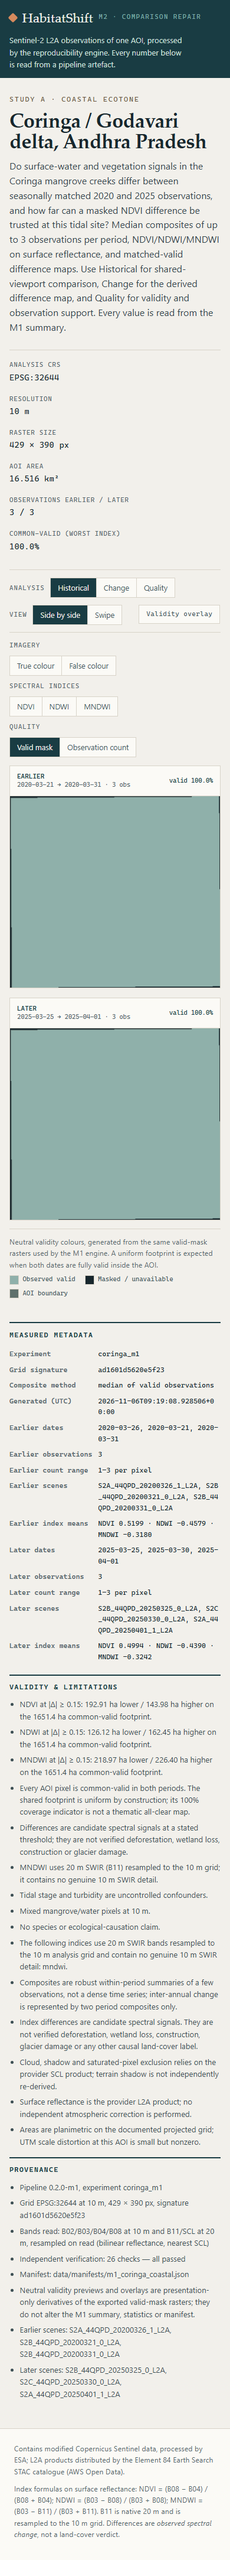
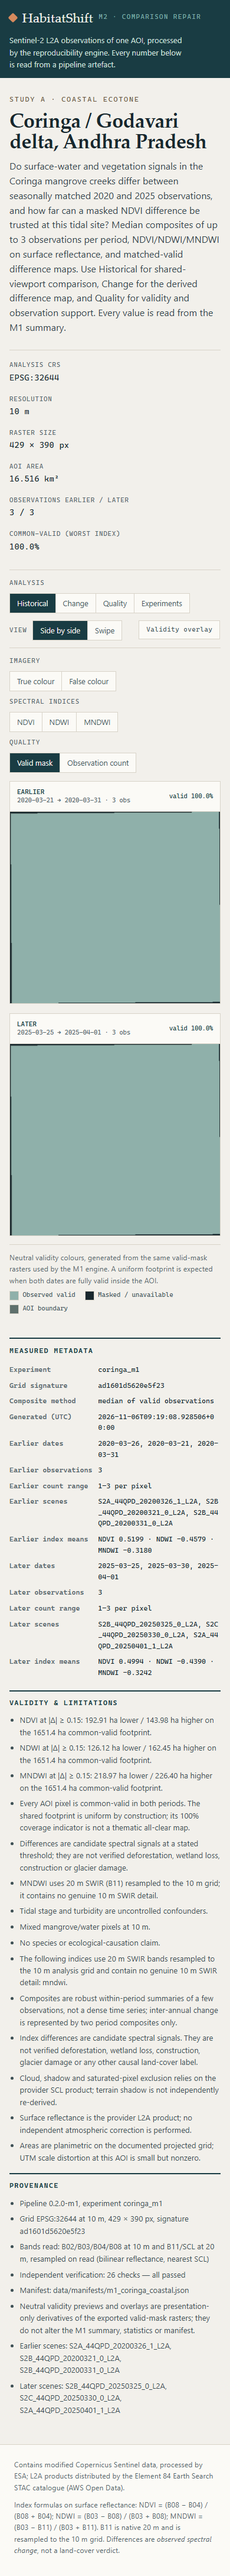
M4-R1 G0: baseline verified (313 pytest / 39+10 browser), all reported issues reproduced and diagnosed

diff --git a/docs/M4_R1_DIAGNOSIS.md b/docs/M4_R1_DIAGNOSIS.md
@@ -1,0 +1,175 @@
+# M4-R1 G0 — Reproduction and diagnosis
+
+**Scope.** M4-R1 corrections (§2–§13 of the brief) plus the additional
+"What Changed?" guided-interpretation feature (§15). This record covers the
+G0 gate: baseline verification and root-cause diagnosis of every reported
+issue before any fix.
+
+**Baseline verified before any change** (2026-11-07, branch `m4-studies`,
+HEAD `dd8f13e`):
+
+| Check | Result |
+|---|---|
+| `python -m pytest` | **313 passed** |
+| `npm run build` (tsc + vite) | clean (chunk-size warning only, unchanged) |
+| `tools/visual/verify_m4.mjs` with backend | **39/39 passed** |
+| `tools/visual/verify_m4_showcase.mjs` without backend | **10/10 passed** |
+
+Working-tree modifications before G0 were only regenerated M2 evidence
+screenshots (PNG re-encodes, already present at HEAD review time); they are
+part of the checkpoint commit.
+
+---
+
+## Diagnosed root causes
+
+### 1. "Explore the Atlas" jumps straight into Coringa (§2)
+
+`LandingPage` renders `<Link to="/workstation">`, and `WorkstationPage`
+falls back to `DEFAULT_STUDY = "coringa_coastal"` when the route has no
+`studyId` (`frontend/src/pages/WorkstationPage.tsx:37`). Confirmed in the
+browser: the hero link's `href` is `#/workstation` and the workstation
+mounts straight into the Coringa investigation. Same applies to the primary
+navigation's Workstation link. **Fix (G1):** a study-selection experience at
+`/workstation` (no studyId) with direct URLs preserved.
+
+### 2. Gallery rows of 2 / 3 / 1 cards (§3)
+
+`frontend/src/styles/landing.css`: `.study-grid` is `repeat(6, 1fr)` with
+`.study-card { grid-column: span 2 }` but `.study-card--lead
+{ grid-column: span 3 }`. Coringa therefore occupies 3 columns, Chilika +
+Western Ghats fill 4 of the remaining 3 → wraps, and the tail cards land
+alone. Exactly the observed 2/3/1 pattern. **Fix (G1):** uniform 3-column
+grid (all cards span 2 of 6), tablet 2-column, mobile 1-column, consistent
+card heights.
+
+### 3. Later image blank / swipe "stops responding" after tab switching (§5, §6)
+
+**One root cause, reproduced live.** `MapCompare` renders the later map cell
+as `{!singleMap && (<div className="map-cell map-later">…)}` and the
+map-init effect runs once per `georef`. Switching Historical → Change (or
+Quality) *unmounts* the later div; returning to Historical mounts a **new,
+empty div**, while `mapsRef` still holds the MapLibre instance bound to the
+now-detached old div. Measured in the browser after the exact sequence
+Historical → Change → Quality → Historical:
+
+```
+laterCanvasInDom: false      ← the visible later host has no canvas
+laterMapDetached: true       ← the MapLibre instance's container is detached
+```
+
+Consequences: the later side of swipe/side-by-side renders the page
+background (perceived "later image is blank", and "swipe no longer works" —
+the divider itself still follows the pointer, measured split moving
+50% → 15% → 80%, but the revealed region is empty). The earlier map never
+unmounts, so it survives — matching the report that only the later side is
+affected. **Fix (G3):** keep the later cell mounted for the map's lifetime
+(CSS-hidden when unused) so the instance is never orphaned, and re-attach/
+resize on visibility changes.
+
+### 4. Opacity control does not actually drive the blend (§7)
+
+Reproduced with an instrumented MapLibre instance (Western Ghats, opacity
+mode): moving the slider updates React state (readout 30%) but the later
+raster's `raster-opacity` **stayed at 1**. Two defects in
+`MapCompare`'s layer-painting effect:
+
+1. `applyImageLayer(later, "layer-later", …, 1)` is called with a hard-coded
+   opacity **and then again** with the slider value. The first call runs
+   immediately; the second call's `whenStyleReady` deferral is pending on a
+   map `idle` that never fires (the detached map from issue 3 stops
+   completing render cycles), so the slider value never lands.
+2. Content and paint concerns are conflated: every opacity tick re-issues
+   `source.updateImage(...)` (full image reload + decode) instead of only
+   updating the paint property — the flicker source on a healthy map.
+
+**Fix (G3):** never orphan the later map; separate "image content" updates
+(URL change → `updateImage`) from "paint" updates (opacity →
+`setPaintProperty`, always immediate); remove the duplicated call.
+
+### 5. Quality panel mixes outside-AOI pixels with masked-inside-AOI (§4)
+
+`qualityFromSummary` (`frontend/src/api/bundle.ts`) computes
+`masked_pixels = aoi_pixels − common_valid_pixels` and the inspector labels
+it "Masked or outside grid". For Western Ghats: AOI 237,774 px, shared valid
+237,774 px → "Masked or outside grid: 0", while the rectangular grid holds
+539 × 445 = 239,855 px — the 2,081 outside-AOI pixels are silently dropped
+from the display. The binary-mask reading ("all Sea Glass") is scientifically
+correct; the accounting labels are not. **Fix (G2):** report the seven
+distinguished quantities (AOI px, grid px, outside-AOI px, earlier-invalid
+in AOI, later-invalid in AOI, shared valid, unavailable), each with the
+correct denominator, across all six investigations; keep the map rendering
+strictly from the recorded binary masks.
+
+### 6. Kathmandu imagery hard to interpret (§8)
+
+Measured preview sizes (1 preview px = 1 analysis pixel):
+
+| Study | Preview | Grid |
+|---|---|---|
+| Kathmandu | **201 × 225 px** | 10 m analysis grid |
+| Coringa | 429 × 390 px | 10 m |
+| Western Ghats | 539 × 445 px | 10 m |
+| Chilika | 635 × 560 px | 10 m |
+
+Kathmandu's AOI is only ≈2.0 × 2.3 km, so the workstation stretches ~200 px
+of genuine 10 m data across the map viewport — the blur is dominated by the
+small AOI, not by thumbnail downscaling (previews are already 1:1 with the
+analysis grid) or compression. There is no higher-resolution information in
+the rasters to recover. **Fix (G4):** resolution transparency (native 10 m
+labels beside imagery, explicit "individual buildings are not resolvable"),
+verify the earlier/later stretch consistency for honest comparison, and an
+explicit note that no purchased or licensed high-resolution reference is
+integrated (per §8: no billing without user approval). No data source
+replacement.
+
+### 7. Swipe view "feels more zoomed in" (§10)
+
+Side-by-side fits the AOI bounds into a half-width cell; swipe fits the same
+bounds into the full-width stage, so MapLibre picks a higher zoom. **Fix
+(G5):** a shared camera policy — fit-to-extent control ("Fit Entire Study
+Area"), preserved camera across mode/analysis switches where appropriate,
+and synchronized extents (already guaranteed by the later-map sync logic).
+
+### 8. Experiments page is Coringa-only (§11)
+
+`ExperimentsPage` hard-codes `api.experimentLatest("coringa_m2")`. Only
+Coringa has an M2 experiment run; the other studies have M1 summaries and
+bundle charts but no experiment runs. **Fix (G6):** study selector with
+truthful per-study content: Coringa shows the recorded M2 run; other
+studies show their genuine descriptive measurements (bundle charts /
+threshold sweeps) with clearly labelled "planned / not available" sections
+rather than invented experiments.
+
+### 9. "What Changed?" guided interpretation (additional feature §15)
+
+Not yet started. Requires (G7) a deterministic findings-generation step over
+the processed change rasters (connected components on thresholded
+differences, polygon extraction in a projected CRS, areas, denominators,
+stored as a reproducible structured output included in the bundles) and
+(G8) the workstation view + findings panel + "What am I looking at?" layer
+explainer, driven exclusively by that recorded output. Study-specific
+interpretation frames per §15.4; no defensible region → honest "no mapped
+finding" instead of an invented polygon.
+
+---
+
+## Evidence captured during G0
+
+Interactive browser session (in-app browser, 1440×900) against the running
+backend; measured states are quoted verbatim above. Formal screenshot
+evidence for the fixed build is produced per gate under `docs/evidence/m4-r1/`.
+
+## Gate plan
+
+| Gate | Content |
+|---|---|
+| G1 | Navigation + gallery correction |
+| G2 | Quality accounting + Western Ghats blank-map fix |
+| G3 | Swipe lifecycle + opacity fix |
+| G4 | Kathmandu rendering transparency |
+| G5 | Fit-to-extent + viewport refinements |
+| G6 | Experiments study selector |
+| G7 | Findings generation pipeline (raster → structured findings) |
+| G8 | "What Changed?" workstation experience |
+| G9 | Regression suites, visual QA, handoff docs |
